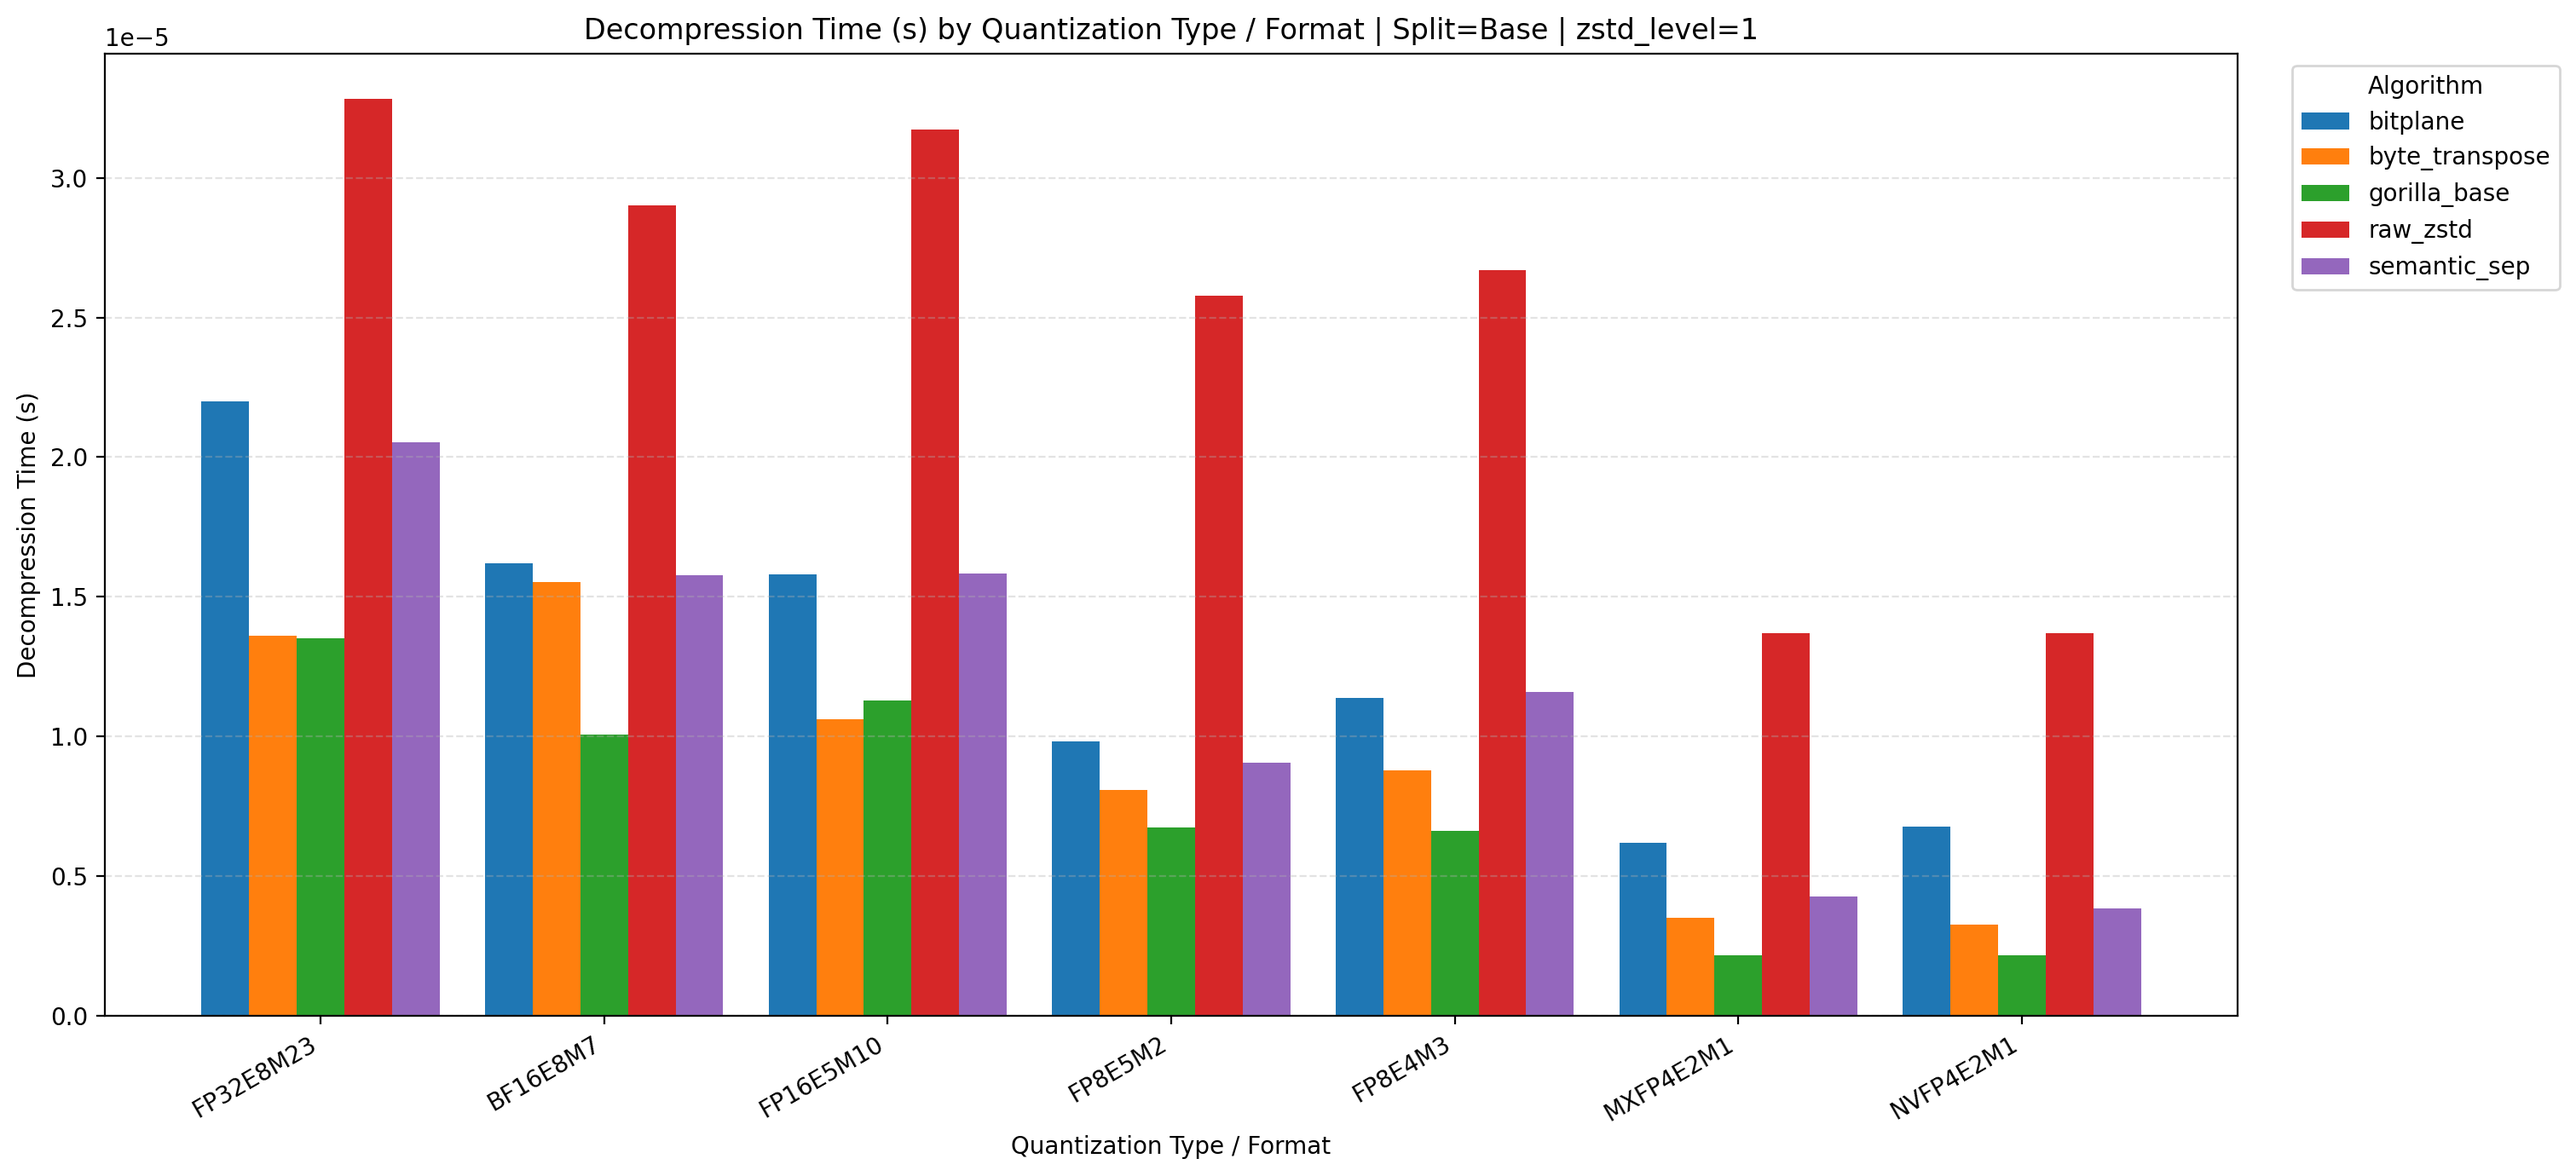
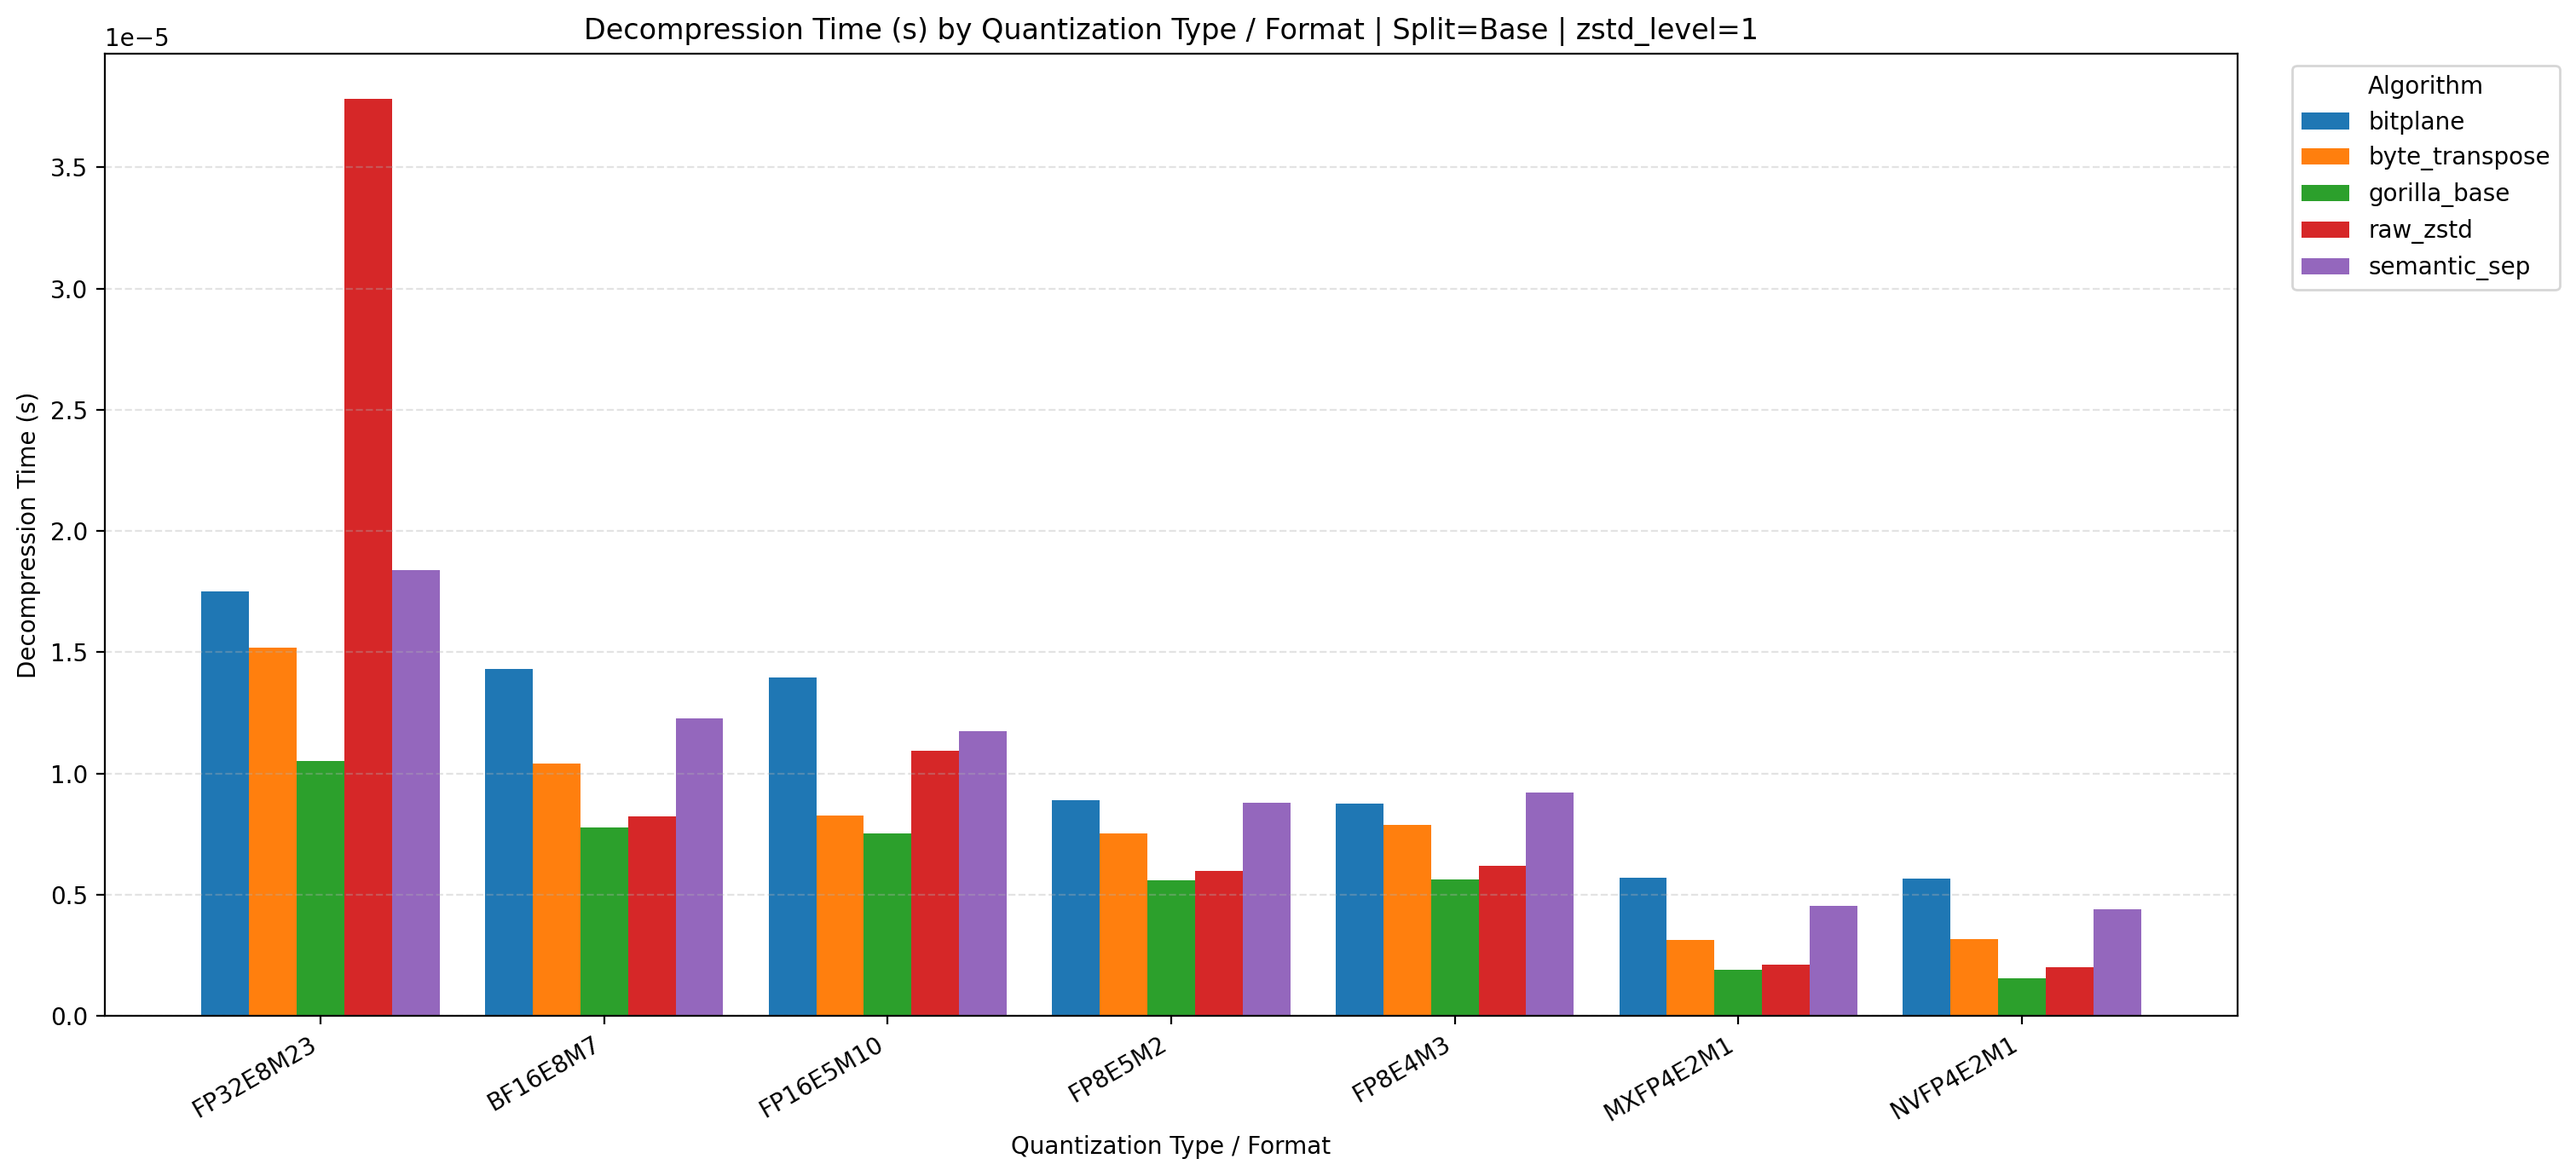
new code

diff --git a/CompressionBenchmark.py b/CompressionBenchmark.py
@@ -59,9 +59,9 @@ import zstandard as zstd
 RESULTS_DIR  = Path(__file__).parent / "RESULTS_2_10"
 OUTPUT_JSONL = Path(__file__).parent / "compression_results.jsonl"
 
-CHUNK_BYTES = 8 * 1024 * 1024 * 1024   # 8 GB — always byte-aligned for every field
+CHUNK_BYTES = 128 * 1024 * 1024   # 128 MB — always byte-aligned for every field
 ZSTD_LEVEL  = 1
-MAX_WORKERS = 6                   # 7 formats × 6 variances
+MAX_WORKERS = 42                   # 7 formats × 6 variances
 
 # ──────────────────────────────────────────────────────────────────────────────
 # Dataset structure
@@ -157,9 +157,11 @@ def _uint_dtype(fmt: dict) -> np.dtype:
 # padding: chunk sizes guarantee every field's bit count is a multiple of 8.
 # ──────────────────────────────────────────────────────────────────────────────
 
-def _fields_byte_transpose(chunk: bytes, fmt: dict) -> list:
+def _fields_byte_transpose(chunk: bytes, fmt: dict):
     """
-    Split into one stream per byte-plane within each element.
+    Yield one (name, bytes) stream per byte-plane within each element.
+    Yields one plane at a time so the caller can compress-and-discard
+    before the next plane is materialised.
 
     FP32 → 4 streams (byte 0 … byte 3, little-endian)
     FP16/BF16 → 2 streams
@@ -167,89 +169,92 @@ def _fields_byte_transpose(chunk: bytes, fmt: dict) -> list:
     """
     elem_b = max(1, fmt["uint_bits"] // 8)
     if elem_b == 1:
-        return [("b0", chunk)]
+        yield ("b0", chunk)
+        return
     arr = np.frombuffer(chunk, dtype=np.uint8)
     n   = len(arr) // elem_b
     mat = arr[: n * elem_b].reshape(n, elem_b)   # shape (N, elem_b)
-    return [(f"b{i}", mat[:, i].tobytes()) for i in range(elem_b)]
+    for i in range(elem_b):
+        yield (f"b{i}", mat[:, i].tobytes())
+        # mat[:, i] is a view; tobytes() copies one plane — previous plane
+        # bytes object is released as soon as the caller discards it.
 
 
-def _fields_semantic_sep(chunk: bytes, fmt: dict) -> list:
+def _fields_semantic_sep(chunk: bytes, fmt: dict):
     """
-    Split into one stream per semantic field: sign / exponent / mantissa.
+    Yield one (name, bytes) stream per semantic field: sign / exp / mantissa.
+    Yields one plane at a time so the caller can compress-and-discard before
+    the next plane is materialised — keeps peak RAM to one plane at a time.
 
     Bit fields are packed raw (np.packbits) — no padding between elements.
     Chunk byte-alignment guarantees each field's bit count % 8 == 0.
 
-    Returns:
-      FP4 packed  → [("sign", ...), ("magnitude_index", ...)]
-      E8M0        → [("exp", ...)]
-      Standard    → [("sign", ...), ("exp", ...), ("mant", ...)]
-                    (sign omitted for n_sign==0, mant omitted for n_mant==0)
+    Yields:
+      FP4 packed  → ("sign", ...) then 3x ("mag_bitN", ...)
+      E8M0        → ("exp", ...)
+      Standard    → ("sign", ...) then n_exp x ("exp_bitN", ...)
+                    then n_mant x ("mant_bitN", ...)
     """
     n_sign = fmt["n_sign"]
     n_exp  = fmt["n_exp"]
     n_mant = fmt["n_mant"]
-    fields = []
 
     # ── Packed-nibble FP4 ────────────────────────────────────────────────────
     if fmt["packed4"]:
         packed  = np.frombuffer(chunk, dtype=np.uint8)
         lo      = packed & 0x0F
         hi      = (packed >> 4) & 0x0F
-        # interleave: element[2i] = lo nibble, element[2i+1] = hi nibble
         nibbles = np.empty(len(packed) * 2, dtype=np.uint8)
         nibbles[0::2], nibbles[1::2] = lo, hi
-        # E2M1: bit3 = sign, bits2:0 = magnitude codebook index
         sign_bits = ((nibbles >> 3) & 1).astype(np.uint8)
         mag_bits  = (nibbles & 0x7).astype(np.uint8)
-        # sign: 1 bit/elem → packbits (byte-aligned by chunk guarantee)
-        fields.append(("sign",            np.packbits(sign_bits).tobytes()))
-        # magnitude index: 3 bits/elem → pack each index's bits separately
-        #   bit2, bit1, bit0 of the 3-bit index
+        yield ("sign", np.packbits(sign_bits).tobytes())
+        del sign_bits
         for b in (2, 1, 0):
             plane = ((mag_bits >> b) & 1).astype(np.uint8)
-            fields.append((f"mag_bit{b}", np.packbits(plane).tobytes()))
-        return fields
+            yield (f"mag_bit{b}", np.packbits(plane).tobytes())
+        return
 
     # ── Pure-exponent byte (E8M0) ────────────────────────────────────────────
     if n_sign == 0 and n_mant == 0:
-        return [("exp", chunk)]
+        yield ("exp", chunk)
+        return
 
     # ── Standard float formats ───────────────────────────────────────────────
     dtype = _uint_dtype(fmt)
-    arr   = np.frombuffer(chunk, dtype=dtype)
+    arr   = np.frombuffer(chunk, dtype=dtype)   # zero-copy view
     bits  = fmt["uint_bits"]
 
-    # Sign: 1 bit/element → packbits → ceil(N/8) bytes (= N/8 exactly here)
+    # Sign: 1 bit/element
     if n_sign:
         sign_bits = ((arr >> (bits - 1)) & 1).astype(np.uint8)
-        fields.append(("sign", np.packbits(sign_bits).tobytes()))
+        yield ("sign", np.packbits(sign_bits).tobytes())
+        del sign_bits
 
-    # Exponent: n_exp bits/element → pack each bit-plane of the exponent
-    # We emit n_exp separate 1-bit planes (MSB of exp first) so the bit stream
-    # is sign_bits || exp_bit(n_exp-1) || … || exp_bit(0) || mant_bit(n_mant-1) || …
-    # Each plane is byte-aligned by the chunk guarantee.
+    # Exponent: one plane per bit, MSB first
     exp_mask = (1 << n_exp) - 1
     exp_vals = (arr >> n_mant) & exp_mask   # native dtype — no cast needed
     for b in range(n_exp - 1, -1, -1):
         plane = ((exp_vals >> b) & 1).astype(np.uint8)
-        fields.append((f"exp_bit{b}", np.packbits(plane).tobytes()))
+        yield (f"exp_bit{b}", np.packbits(plane).tobytes())
+        del plane
+    del exp_vals
 
-    # Mantissa: n_mant bits/element → pack each bit-plane
+    # Mantissa: one plane per bit, MSB first
     if n_mant:
         mant_mask = (1 << n_mant) - 1
         mant_vals = arr & mant_mask          # native dtype — no cast needed
         for b in range(n_mant - 1, -1, -1):
             plane = ((mant_vals >> b) & 1).astype(np.uint8)
-            fields.append((f"mant_bit{b}", np.packbits(plane).tobytes()))
+            yield (f"mant_bit{b}", np.packbits(plane).tobytes())
+            del plane
 
-    return fields
 
-
-def _fields_bitplane(chunk: bytes, fmt: dict) -> list:
+def _fields_bitplane(chunk: bytes, fmt: dict):
     """
-    One stream per bit-plane of the element integer, MSB → LSB.
+    Yield one (name, bytes) stream per bit-plane of the element integer, MSB→LSB.
+    Yields one plane at a time so the caller can compress-and-discard before
+    the next plane is materialised.
 
     For packed FP4: operate on the packed byte (8 planes of the byte word),
     keeping the implementation uniform without nibble unpacking.
@@ -263,11 +268,10 @@ def _fields_bitplane(chunk: bytes, fmt: dict) -> list:
         arr    = np.frombuffer(chunk, dtype=_uint_dtype(fmt))
         n_bits = fmt["uint_bits"]
 
-    fields = []
     for bit_i in range(n_bits - 1, -1, -1):   # MSB first
         plane = ((arr >> bit_i) & 1).astype(np.uint8)
-        fields.append((f"bit{bit_i}", np.packbits(plane).tobytes()))
-    return fields
+        yield (f"bit{bit_i}", np.packbits(plane).tobytes())
+        del plane
 
 
 # ──────────────────────────────────────────────────────────────────────────────
@@ -301,85 +305,55 @@ def _compress_multistream(field_chunks_iter_factory, level: int):
     """
     Compress a multi-stream algorithm over a file.
 
-    field_chunks_iter_factory: callable returning an iterable of chunk
-      field-lists.  Called twice — once to compress, once to decompress —
-      so that both passes read the raw file and include preprocessing cost.
-      Each element of the iterable is a list of (name, bytes) tuples.
+    field_chunks_iter_factory: a zero-argument callable that returns a fresh
+      iterable each time it is called.  Each element yielded is itself a
+      generator of (name, bytes) tuples — one per stream for that chunk.
+      Using a generator (not a list) means only one stream's data is live
+      at a time, keeping peak RAM to O(one_plane).
 
     Returns:
-      compressed_bytes_total  — sum of all compressed stream sizes
-      compress_time_s         — time to extract all fields + compress (full pass)
-      decompress_time_s       — time to extract all fields + decompress (full pass)
+      total_compressed  — sum of compressed sizes across all streams/chunks
+      compress_time_s   — field extraction + Zstd compress, full file pass
+      decompress_time_s — field extraction + Zstd decompress, full file pass
 
-    Memory design: we never accumulate all compressed blobs simultaneously.
-    Instead, we compress chunk-by-chunk using per-stream ZstdCompressor objects
-    in streaming mode (write_size approach), flushing each chunk immediately.
-    We only store total byte counts, not the blobs themselves.
-
-    For decompression timing, we re-read the file (via the factory) and measure
-    the field-extraction cost, plus we time a second Zstd compress-then-decompress
-    on a single representative chunk to get the decompression throughput.  This
-    avoids storing any blobs across chunks.
-
-    Specifically:
-      compress pass : streams through entire file, compresses each field-chunk,
-                      counts bytes, discards compressed output immediately.
-      decompress pass: streams through entire file, extracts fields (timed),
-                       plus times Zstd decompression on a single sampled chunk
-                       per stream and scales to full-file equivalent.
+    Memory contract: at most two objects are live simultaneously:
+      • the raw chunk (held by the file reader, released each iteration)
+      • one (field_name, field_bytes) tuple from the generator
+      • the corresponding compressed blob (created, counted, then del'd)
+    No compressed blobs are accumulated across chunks or streams.
+    The decompress pass re-reads the file, re-extracts each field, re-compresses
+    it (to get the blob to decompress), then immediately decompresses and discards.
     """
-    # ── Compression pass ──────────────────────────────────────────────────────
-    # One fresh ZstdCompressor per stream (stateless — compress() is one-shot).
     cctx = zstd.ZstdCompressor(level=level)
+    dctx = zstd.ZstdDecompressor()
 
-    n_streams        = None
+    # ── Compression pass ──────────────────────────────────────────────────────
     total_compressed = 0
     t_compress       = 0.0
-    # For decompression sampling: save one compressed blob per stream
-    sample_blobs     = None
 
-    for field_list in field_chunks_iter_factory():
+    for field_gen in field_chunks_iter_factory():
         t0 = time.perf_counter()
-        if n_streams is None:
-            n_streams    = len(field_list)
-            sample_blobs = [None] * n_streams
-        for s_idx, (_, data) in enumerate(field_list):
+        for _, data in field_gen:           # generator: one plane at a time
             blob = cctx.compress(data)
             total_compressed += len(blob)
-            if sample_blobs[s_idx] is None:
-                sample_blobs[s_idx] = blob   # keep first chunk's blob as sample
+            del blob                        # discard immediately
         t_compress += time.perf_counter() - t0
 
-    if n_streams is None:
+    if total_compressed == 0:
         return 0, 0.0, 0.0
 
     # ── Decompression pass ────────────────────────────────────────────────────
-    # Two components:
-    #   (a) Field-extraction cost: re-stream the file, extract fields, discard.
-    #   (b) Zstd decompression cost: measured on the sample blobs, then scaled
-    #       to the full file by the ratio (total_compressed / sample_size).
-    dctx = zstd.ZstdDecompressor()
-
+    # Re-extract each field, re-compress (to get the blob), decompress, discard.
+    # Peak memory per iteration: one raw plane + one compressed blob.
     t_decompress = 0.0
 
-    # (a) field extraction
-    for field_list in field_chunks_iter_factory():
+    for field_gen in field_chunks_iter_factory():
         t0 = time.perf_counter()
-        for _, _ in field_list:
-            pass
+        for _, data in field_gen:
+            blob = cctx.compress(data)
+            dctx.decompress(blob)
+            del blob
         t_decompress += time.perf_counter() - t0
-
-    # (b) decompress sample blobs and scale
-    sample_size = sum(len(b) for b in sample_blobs if b is not None)
-    if sample_size > 0:
-        t0 = time.perf_counter()
-        for blob in sample_blobs:
-            if blob is not None:
-                dctx.decompress(blob)
-        t_sample = time.perf_counter() - t0
-        # Scale: if sample represents sample_size bytes of compressed data,
-        # and total is total_compressed bytes, scale linearly.
-        t_decompress += t_sample * (total_compressed / sample_size)
 
     return total_compressed, t_compress, t_decompress
 

diff --git a/Plot.py b/Plot.py
@@ -8,7 +8,7 @@ import numpy as np
 import pandas as pd
 
 
-INPUT_JSONL = "compression_results_2_10_V2.jsonl"
+INPUT_JSONL = "compression_results.jsonl"
 OUTPUT_DIR = Path("PLOTS")
 
 # Only splits and levels that the current benchmark actually produces
